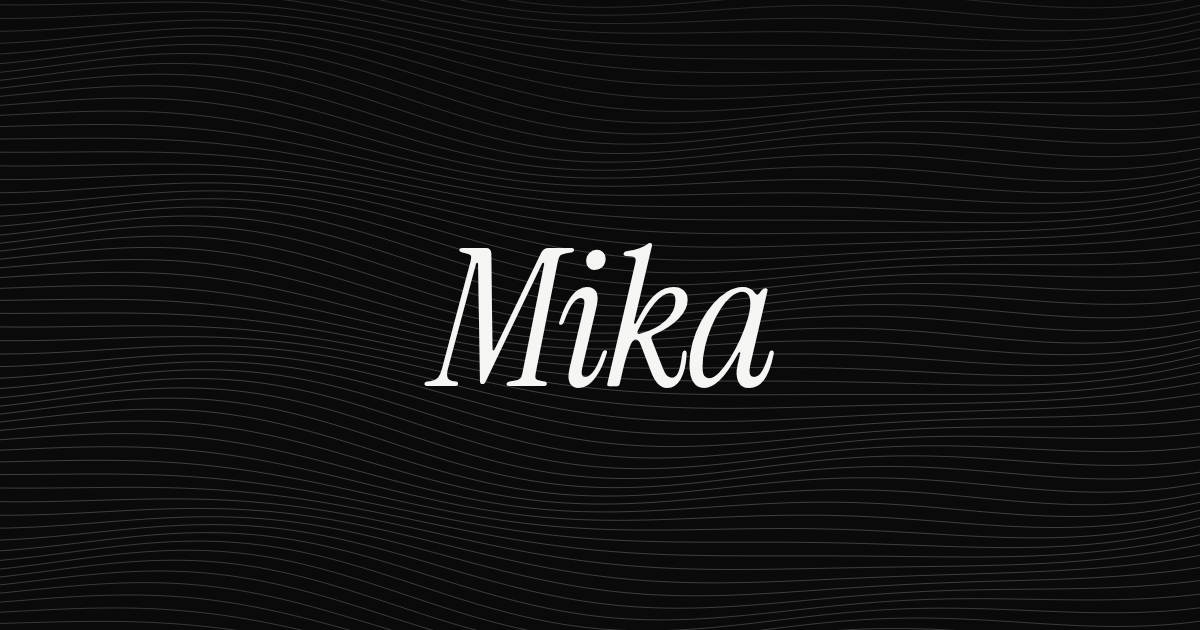
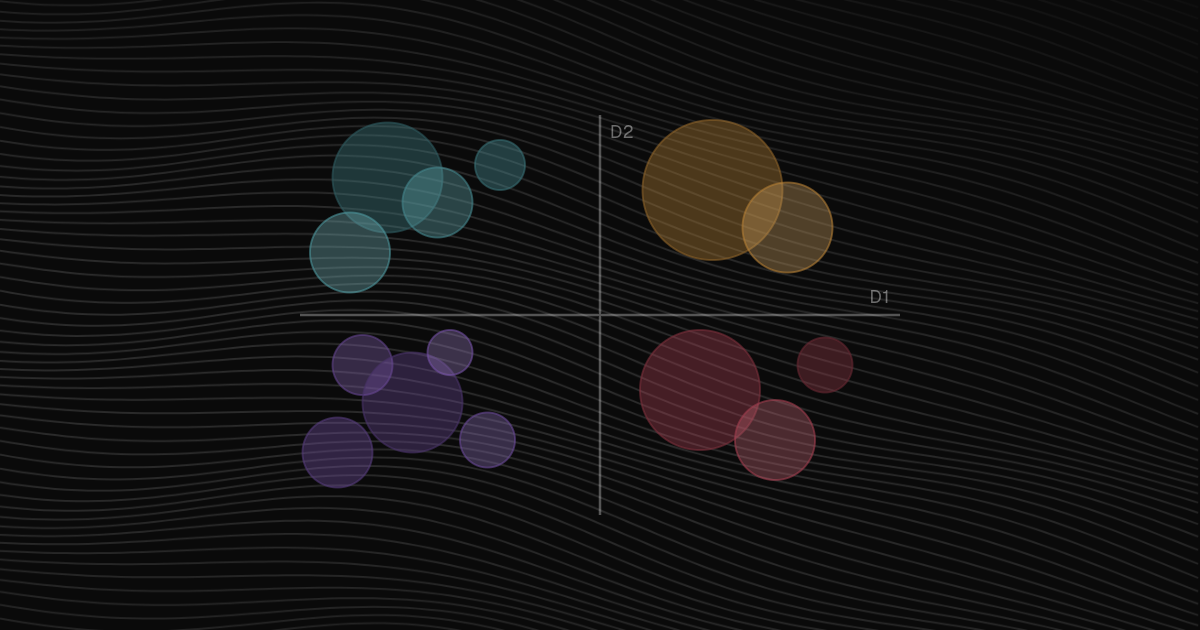
Give the visualizer its own share image
og-image.png is now the mikaeel.ca ribbon background with the site's
IntertopicMap visual centred on top, instead of a copy of the main "Mika"
image. The ribbon is rendered from RibbonWaveBackground at the same scale as
the main share image (11 px line spacing, full coverage) and toned to its
brightness. Alt text updated to match.

diff --git a/index.html b/index.html
@@ -14,12 +14,12 @@
   <meta property="og:image:type" content="image/png">
   <meta property="og:image:width" content="1200">
   <meta property="og:image:height" content="630">
-  <meta property="og:image:alt" content="Mika">
+  <meta property="og:image:alt" content="An intertopic distance map of coloured topic bubbles over the mikaeel.ca ribbon background">
   <meta name="twitter:card" content="summary_large_image">
   <meta name="twitter:title" content="LDA visualizer">
   <meta name="twitter:description" content="Interactive LDA topic model visualizer that runs entirely in the browser: upload text files or import models from R and Python.">
   <meta name="twitter:image" content="https://lda-visualizer.mikaeel.ca/og-image.png">
-  <meta name="twitter:image:alt" content="Mika">
+  <meta name="twitter:image:alt" content="An intertopic distance map of coloured topic bubbles over the mikaeel.ca ribbon background">
   <link rel="icon" href="favicon.png" type="image/png" sizes="32x32">
   <style id="lda-shell">
     /* Plain, theme-coloured screen while the bundle unpacks (no placeholder art or label). */

diff --git a/build.py b/build.py
@@ -26,7 +26,8 @@ DESCRIPTION = ("Interactive LDA topic model visualizer that runs entirely in the
 # Favicon ("LDA" in Geist on the site's #171717) and the unpack screen live here too.
 # Social preview tags. They must live in this static shell: link-preview
 # crawlers don't run the JavaScript that unpacks the page. og-image.png is the
-# main mikaeel.ca share image (src/app/opengraph-image.png in that repo).
+# mikaeel.ca ribbon (RibbonWaveBackground at 655 CSS px wide, 2x, centre crop,
+# toned to the main share image) with the site's IntertopicMap visual on top.
 META = f"""<!-- lda-meta -->
   <meta name="description" content="{DESCRIPTION}">
   <meta property="og:title" content="{TITLE}">
@@ -38,12 +39,12 @@ META = f"""<!-- lda-meta -->
   <meta property="og:image:type" content="image/png">
   <meta property="og:image:width" content="1200">
   <meta property="og:image:height" content="630">
-  <meta property="og:image:alt" content="Mika">
+  <meta property="og:image:alt" content="An intertopic distance map of coloured topic bubbles over the mikaeel.ca ribbon background">
   <meta name="twitter:card" content="summary_large_image">
   <meta name="twitter:title" content="{TITLE}">
   <meta name="twitter:description" content="{DESCRIPTION}">
   <meta name="twitter:image" content="{SITE_URL}og-image.png">
-  <meta name="twitter:image:alt" content="Mika">
+  <meta name="twitter:image:alt" content="An intertopic distance map of coloured topic bubbles over the mikaeel.ca ribbon background">
   <link rel="icon" href="favicon.png" type="image/png" sizes="32x32">
   <style id="lda-shell">
     /* Plain, theme-coloured screen while the bundle unpacks (no placeholder art or label). */
